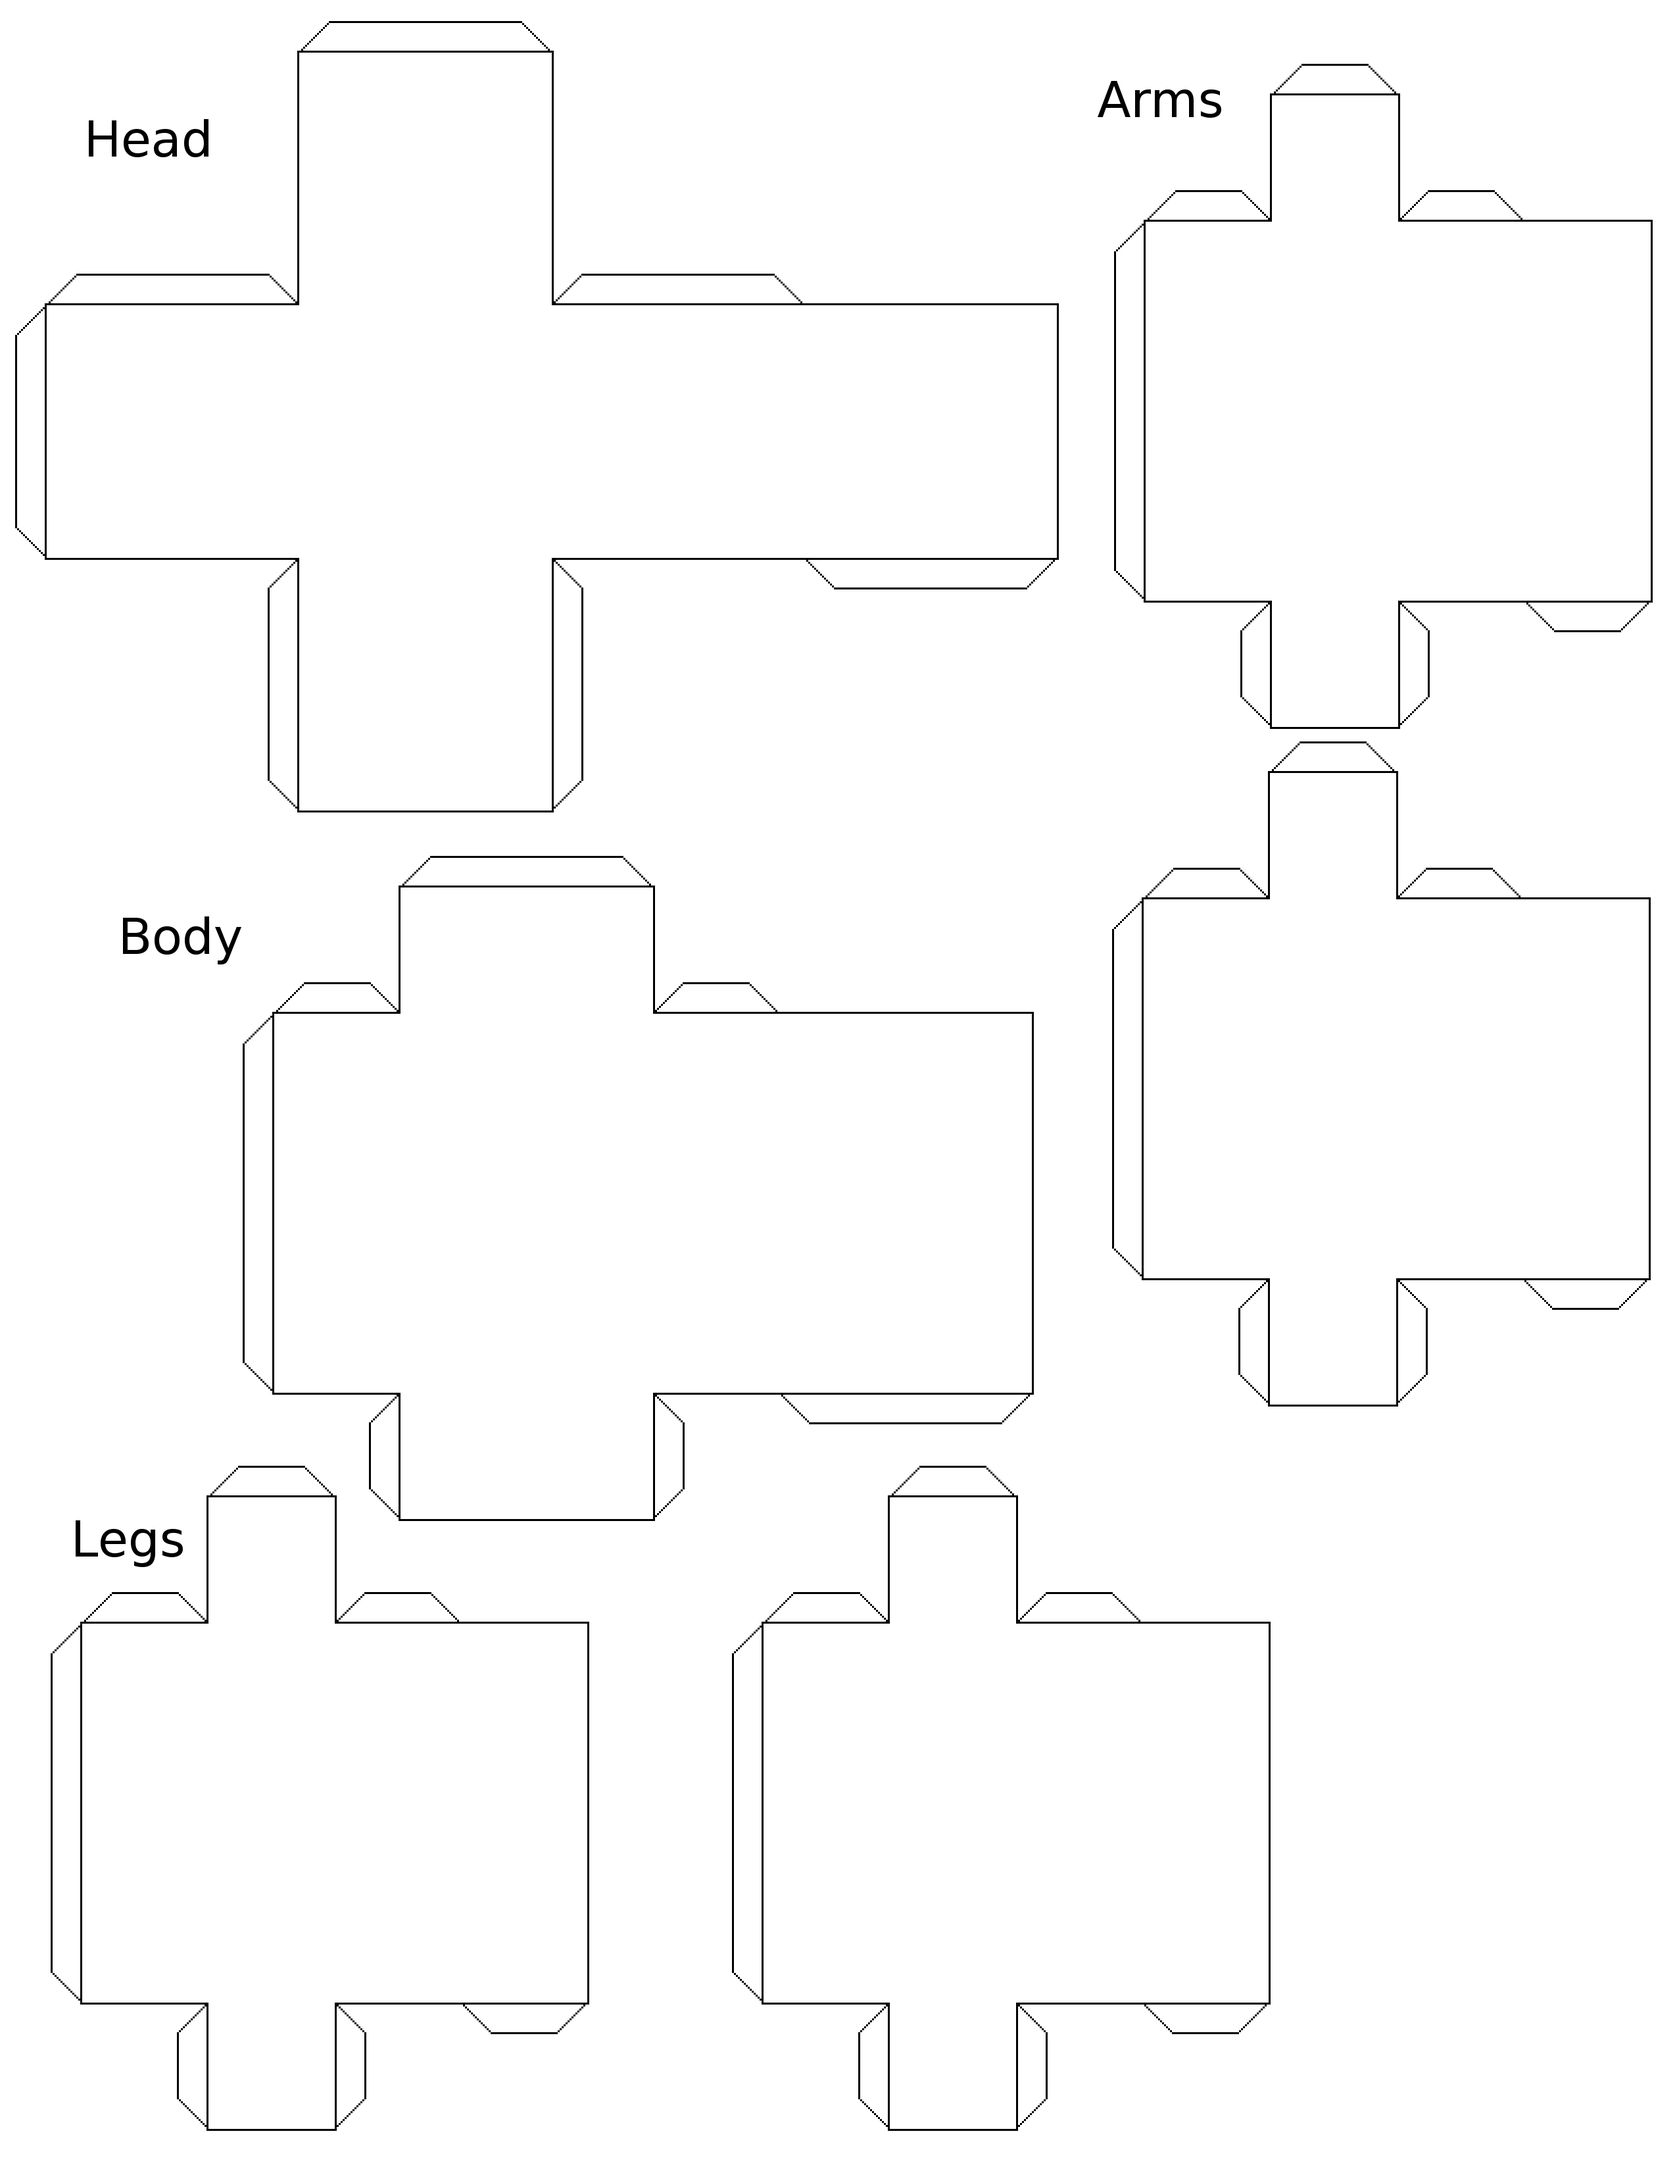
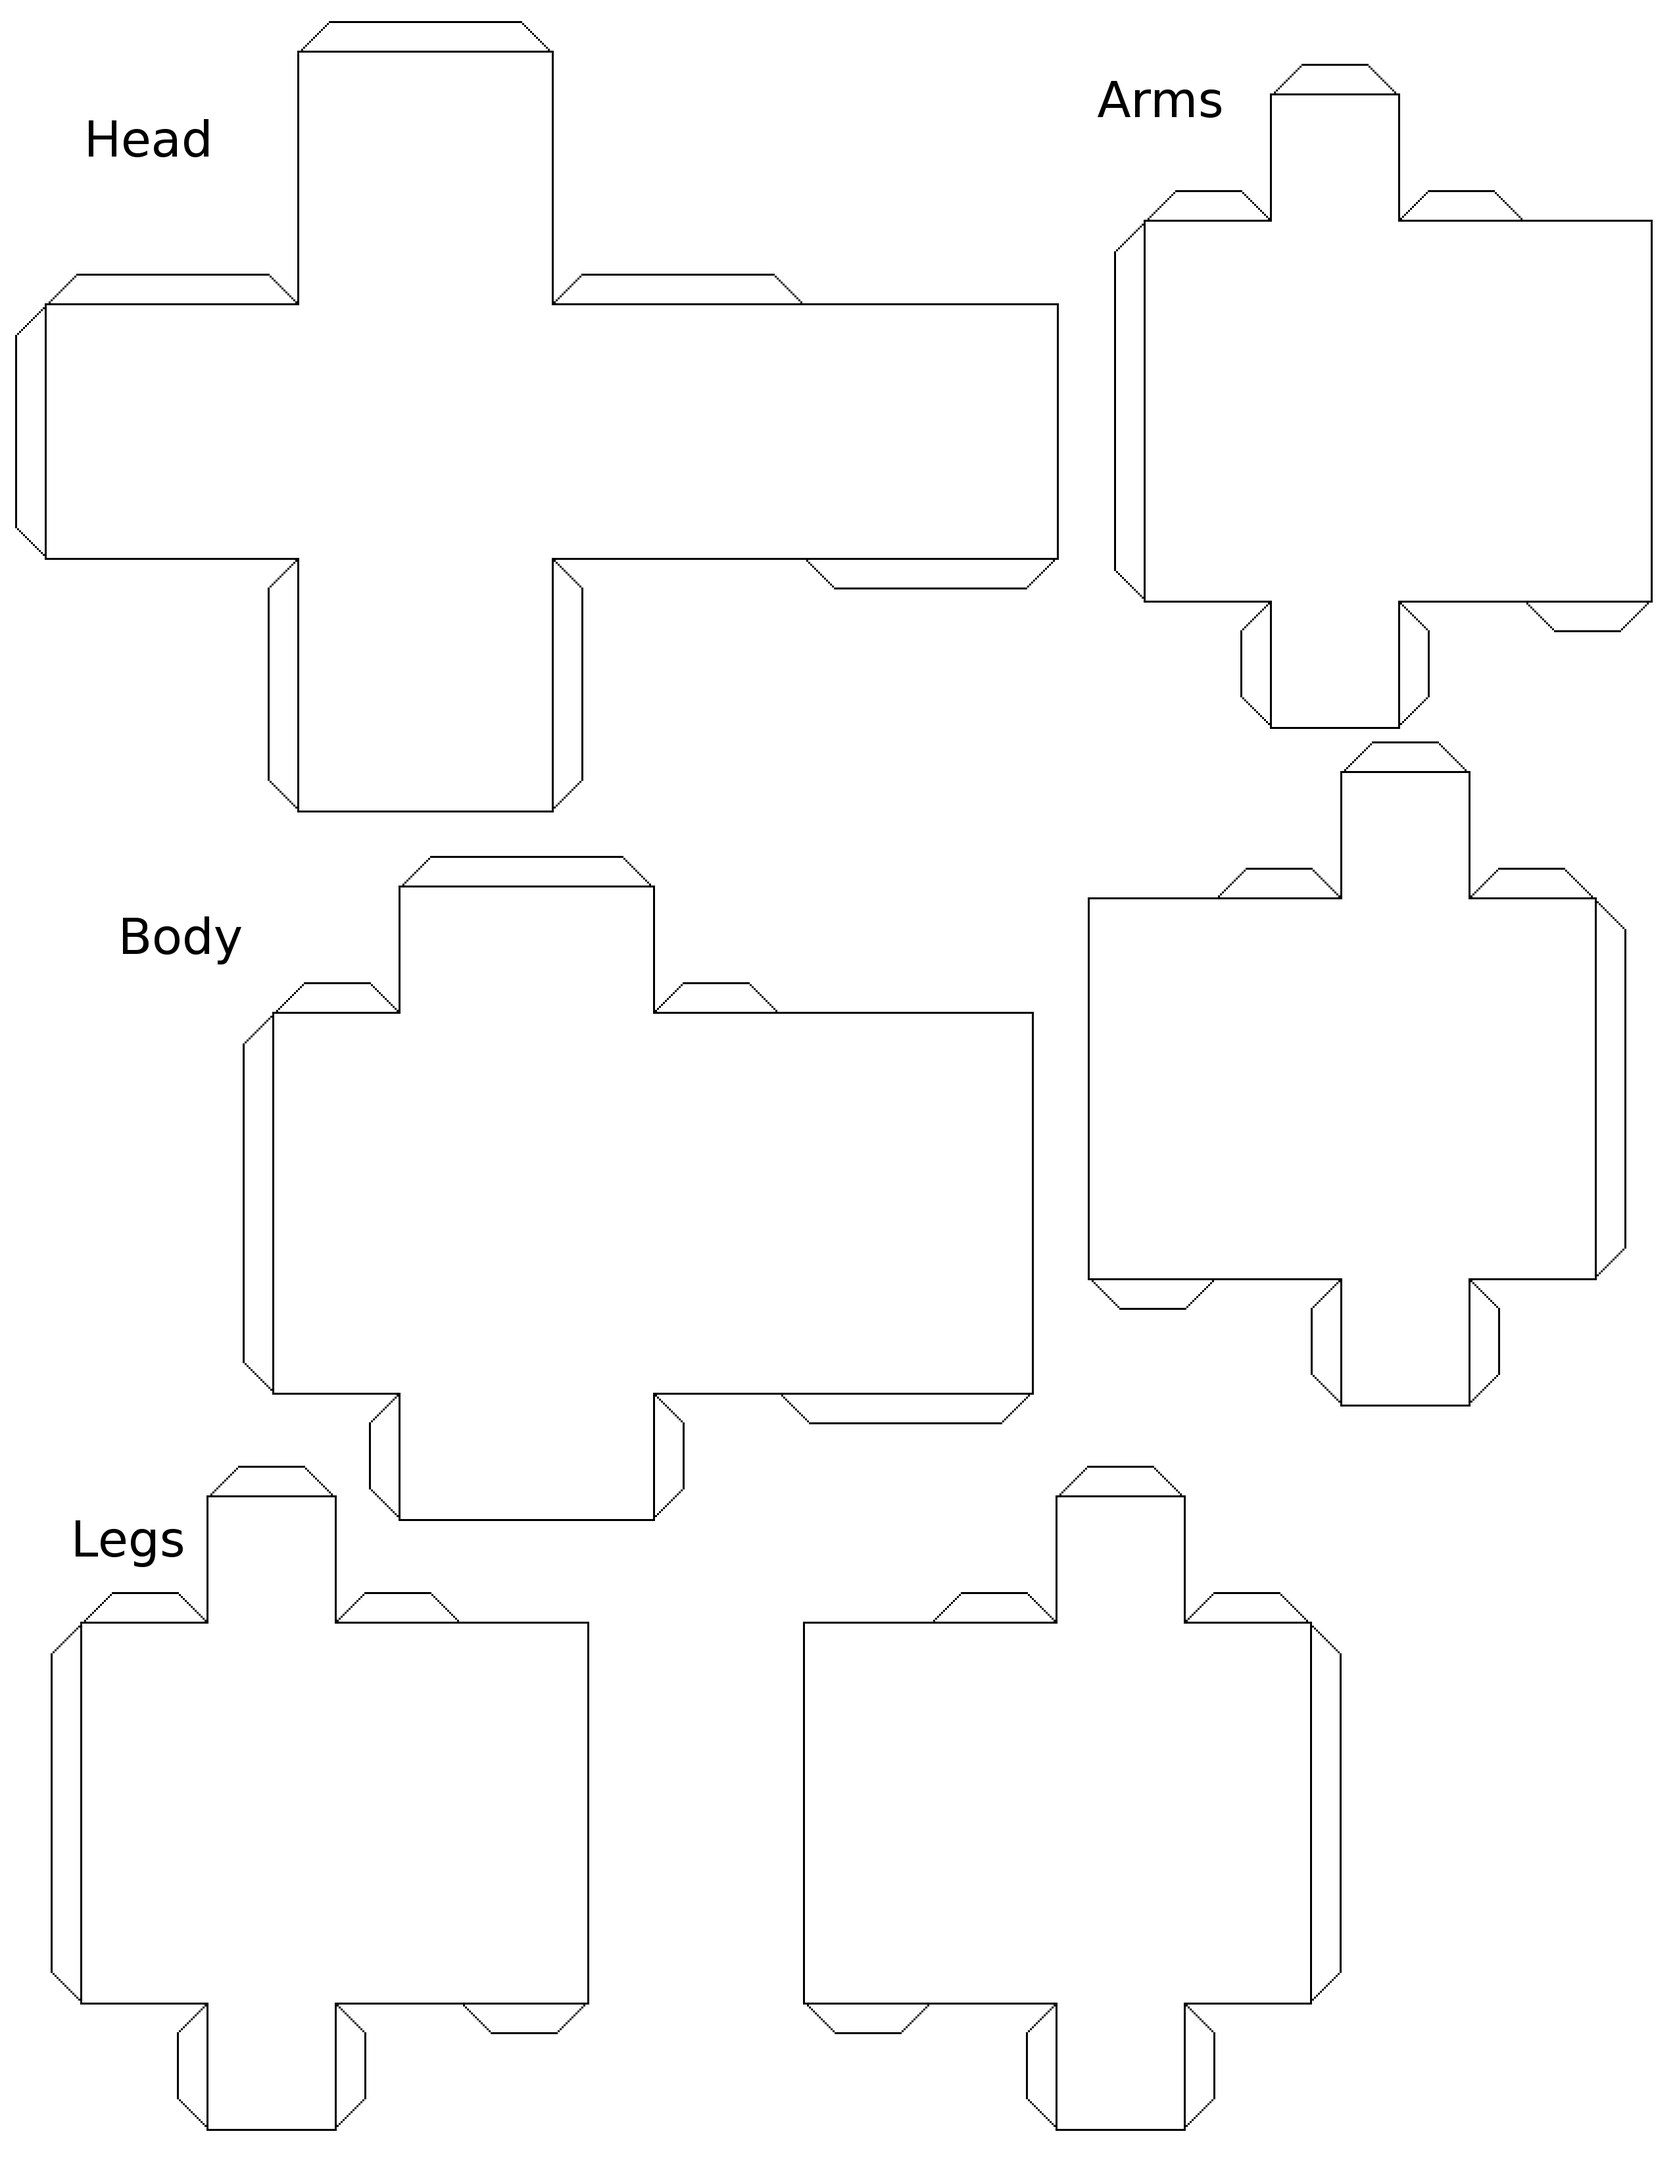
Left and right arms and legs now mirror each other.

diff --git a/README.md b/README.md
@@ -28,6 +28,6 @@ Arms:
 
 To Do:
 ======
-- [ ] Mirror the arms and legs.
-- [ ] Make ImageMagick draw the borders and tabs instead of using a template.
-- [ ] Accept a scale factor argument.
+[X] Mirror the arms and legs.
+[ ] Make ImageMagick draw the borders and tabs instead of using a template.
+[ ] Accept a scale factor argument.
